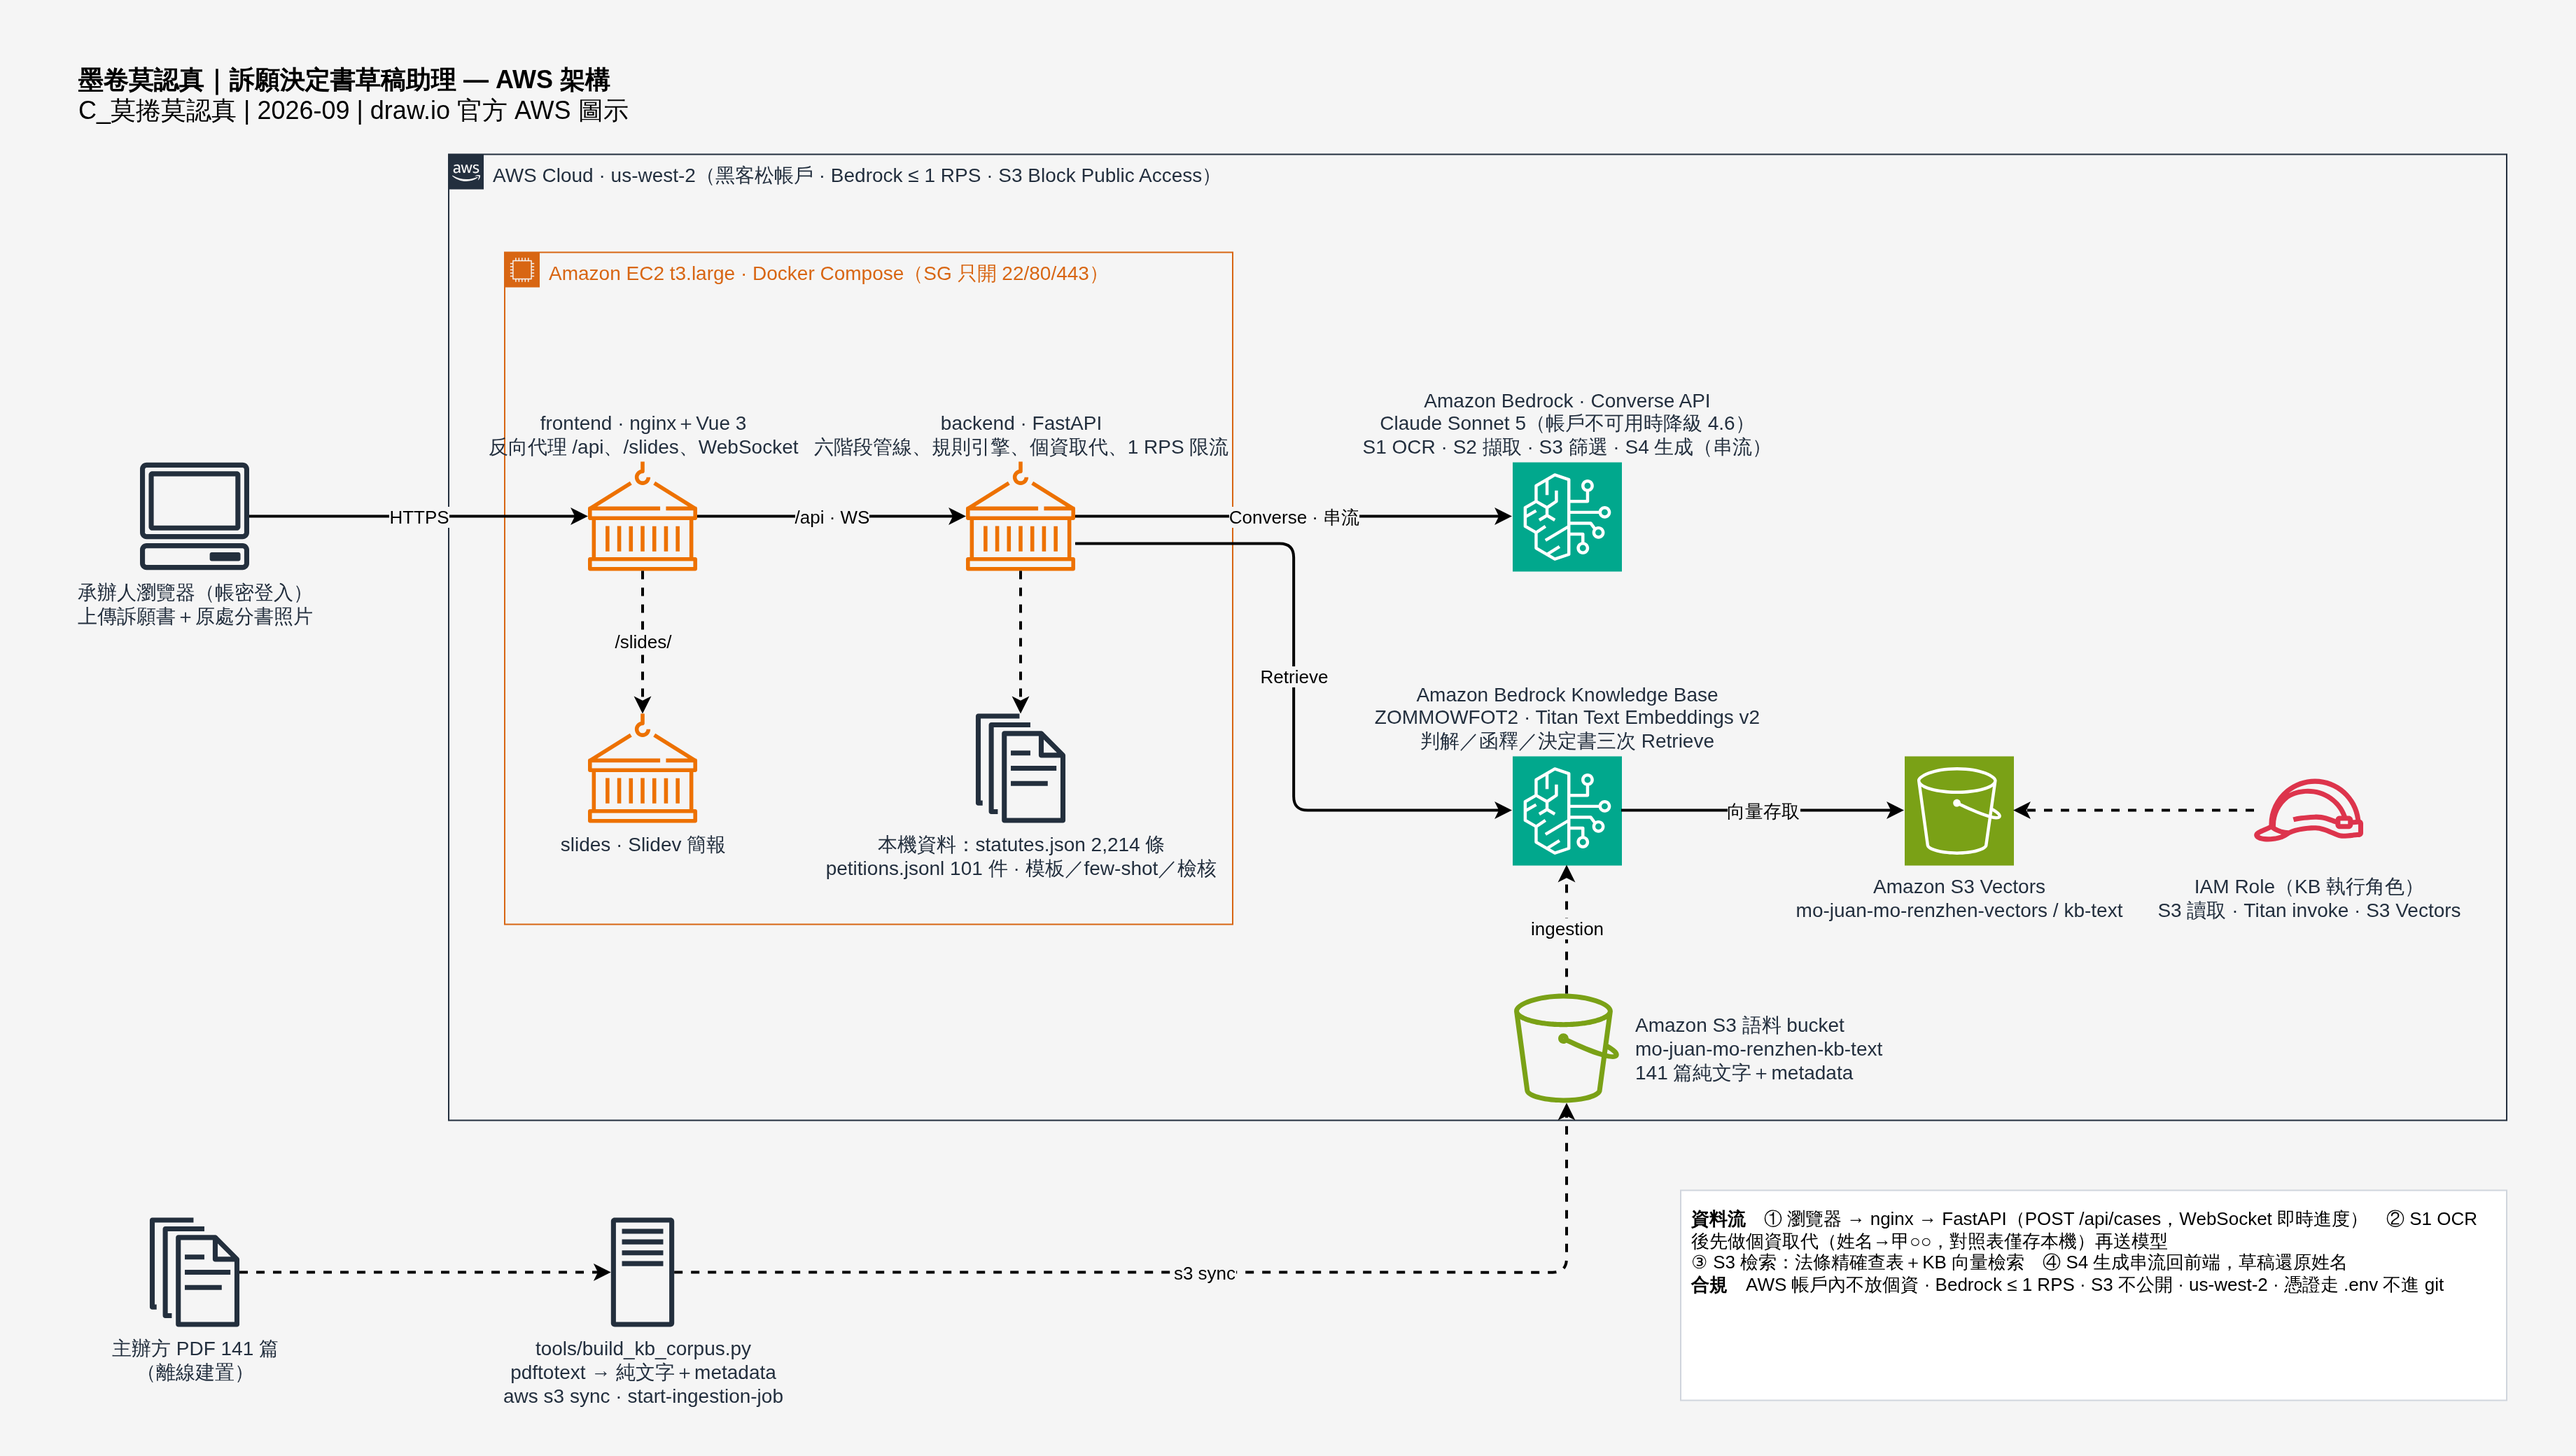
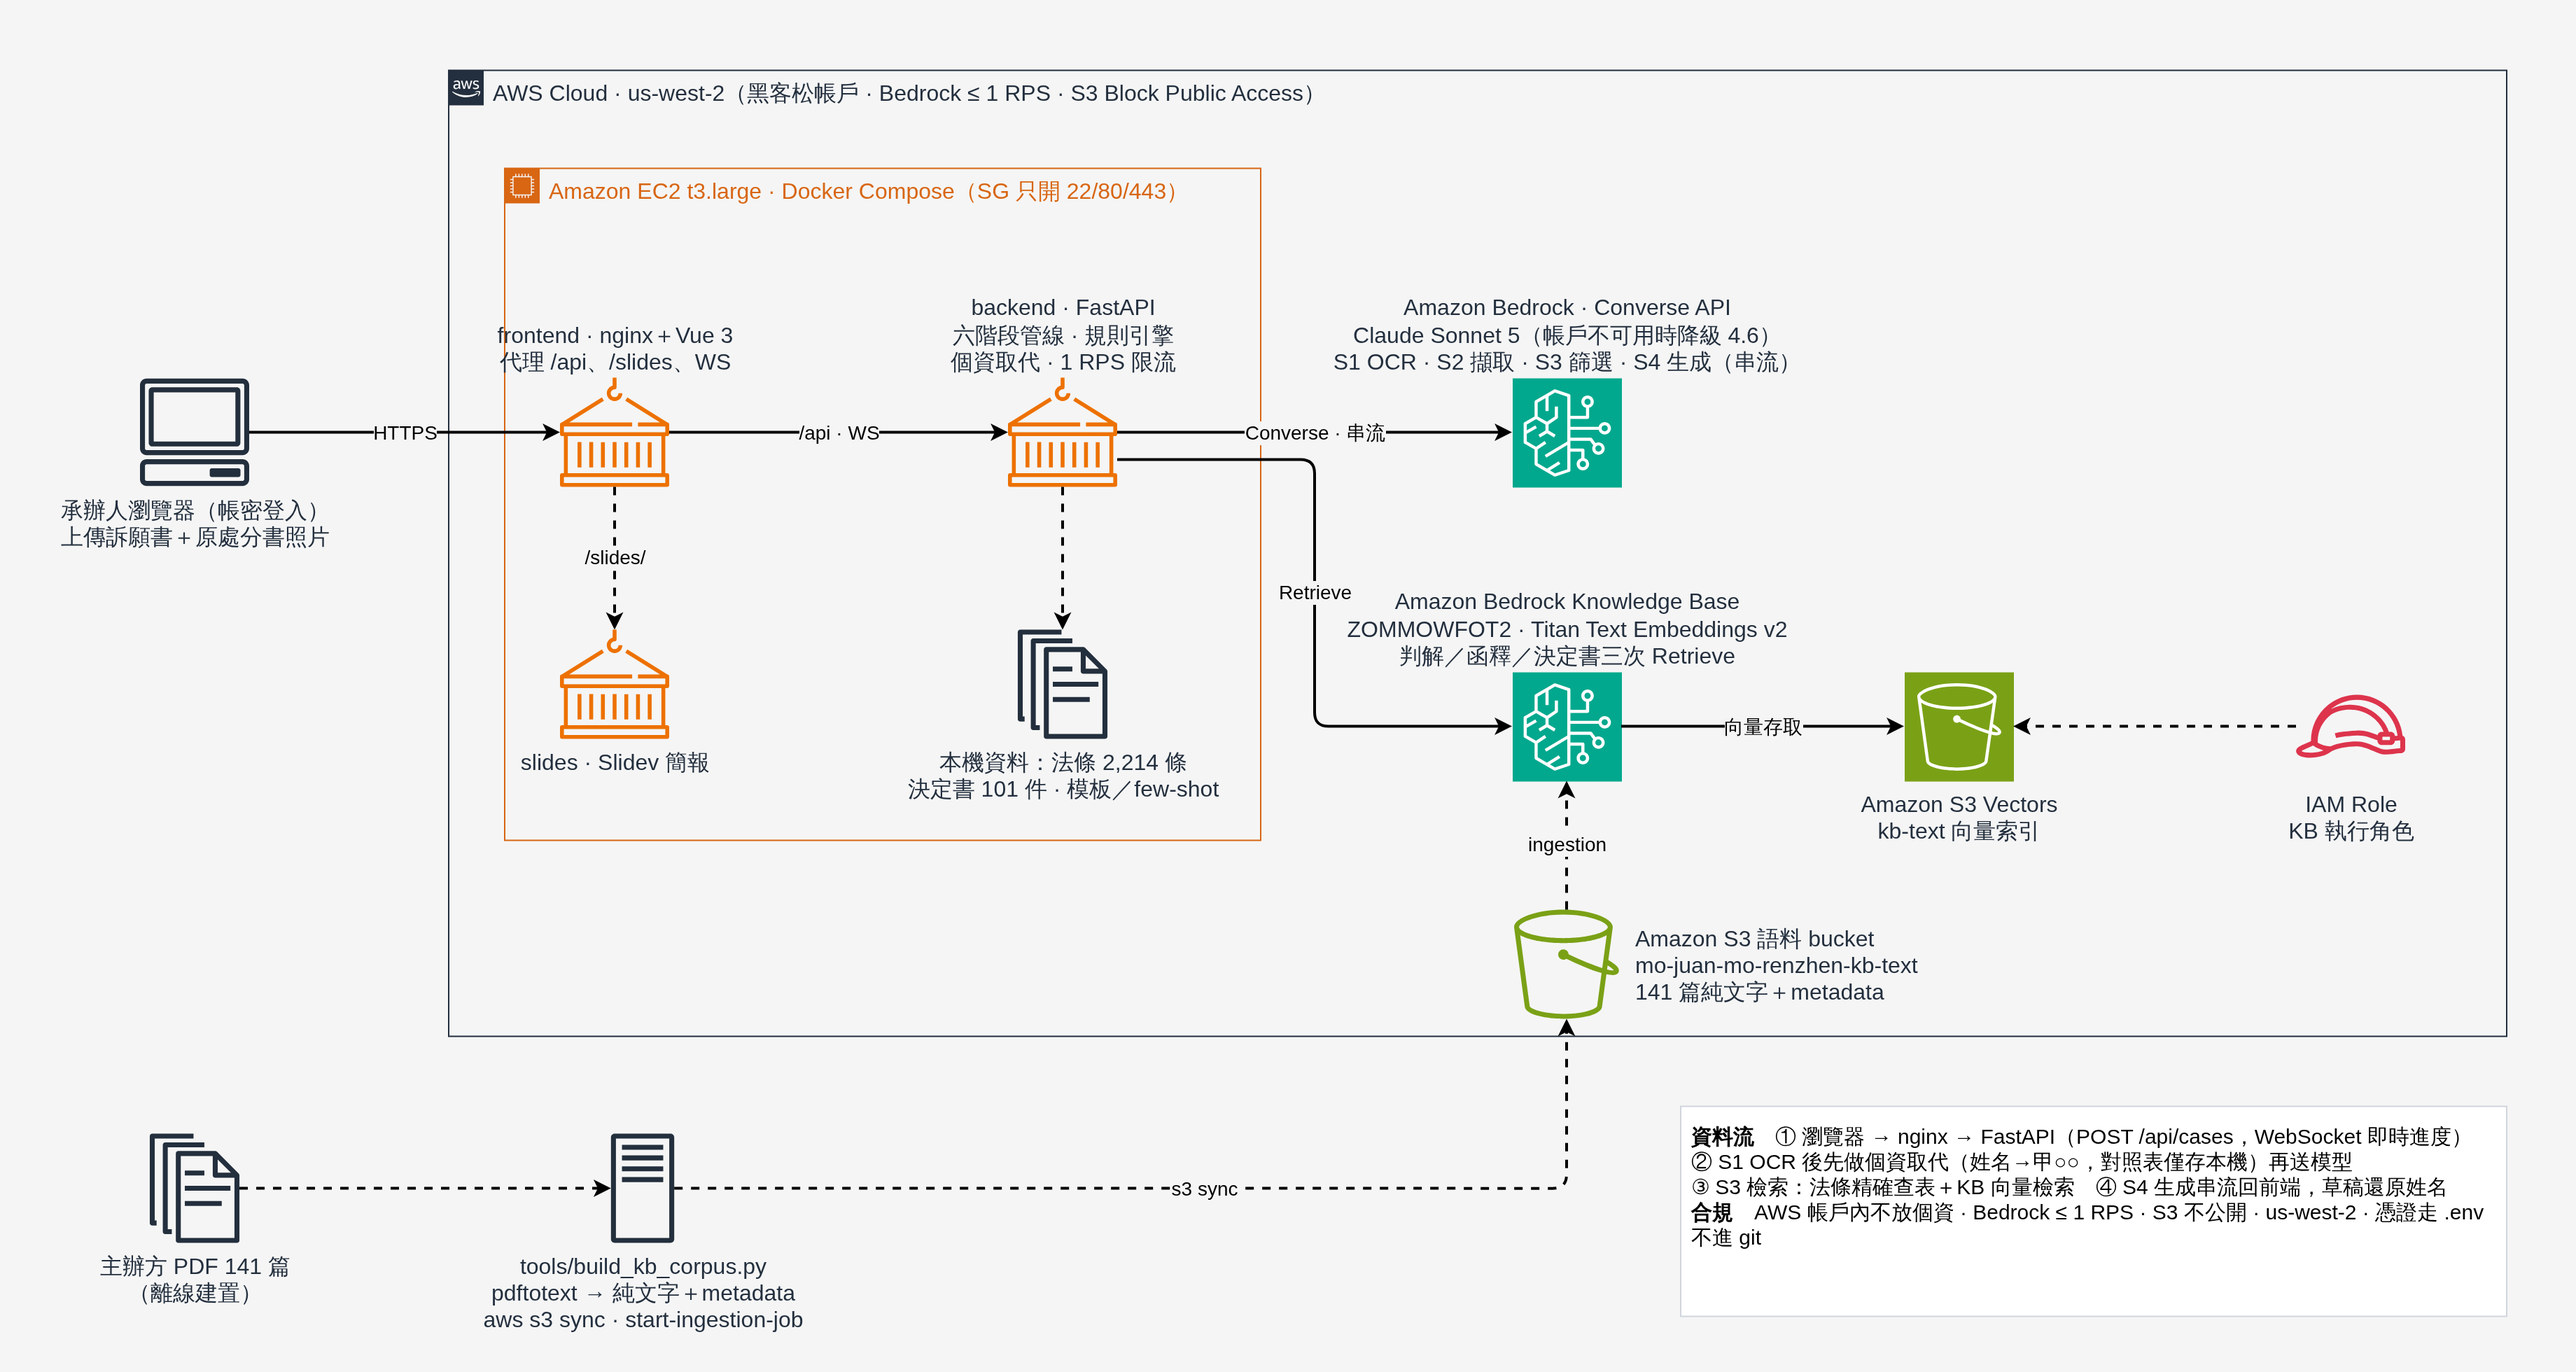
docs(arch): 架構圖放大可讀——去內部標題、字級 16px、畫布 1800×940、標籤縮短避免相撞；簡報第 8 頁改 arch-slide 版面（圖高 520px 置中）
Claude-Session: https://claude.ai/code/session_0136QF4RZNiB9vDbH42YayAt

diff --git a/slides/style.css b/slides/style.css
@@ -25,3 +25,4 @@
 .sr-only{position:absolute!important;width:1px!important;height:1px!important;padding:0!important;margin:-1px!important;overflow:hidden!important;clip:rect(0,0,0,0)!important;white-space:nowrap!important;border:0!important}
 
 .video-demo{padding:26px 48px}.video-demo .eyebrow{font-size:14px;margin-bottom:8px}.video-demo h1{font-size:32px;margin-bottom:14px;letter-spacing:-.5px}.demo-video{display:block;width:100%;height:500px;object-fit:contain;background:#0a1713}.video-demo .foot{left:48px;right:48px;bottom:22px}
+.arch-slide{padding:34px 48px}.arch-slide .eyebrow{margin-bottom:8px}.arch-slide h1{font-size:30px;margin:0 0 12px}.arch-img{display:block;margin:0 auto;width:auto;max-width:100%;max-height:520px;object-fit:contain;border:1px solid #e5e7eb;border-radius:8px;background:#fff}.arch-slide .foot{left:48px;right:48px;bottom:18px;font-size:13px}

diff --git a/slides/slides.md b/slides/slides.md
@@ -126,18 +126,20 @@ class: data-slide
 -->
 
 ---
+class: arch-slide
+---
 
 <div class="eyebrow">技術架構（已部署 · AWS 官方架構圖示）</div>
 
 # 一個協調器，串接各段服務
 
-<img src="/images/aws-architecture.png" style="width:92%;margin:0 auto;display:block;border:1px solid #e5e7eb;border-radius:8px" alt="AWS 架構與資料流" />
+<img src="/images/aws-architecture.png" class="arch-img" alt="AWS 架構與資料流" />
 
-<div class="foot"><span>Docker Compose（Vue＋FastAPI）→ Bedrock Converse（Claude Sonnet 5，帳戶不可用時自動降級 4.6）＋ Knowledge Base（Titan v2＋S3 Vectors）｜us-west-2</span><span>08 / 11</span></div>
+<div class="foot"><span>EC2 Docker Compose（Vue＋FastAPI）→ Bedrock Converse（Sonnet 5，降級 4.6）＋ Knowledge Base（Titan v2＋S3 Vectors）｜us-west-2</span><span>08 / 11</span></div>
 
 <!--
 建議配時：25 秒。
-左邊是 Docker Compose 一鍵起的前後端，右邊是 Bedrock。模型用環境變數設定，預設 Sonnet 5，帳戶拿不到會自動降級。全部呼叫共用 1 RPS 限流，符合主辦方規範。
+左邊是 EC2 上 Docker Compose 一鍵起的三個容器，右邊是 Bedrock。模型用環境變數設定，預設 Sonnet 5，帳戶拿不到會自動降級。全部呼叫共用 1 RPS 限流，符合主辦方規範。
 -->
 
 ---
